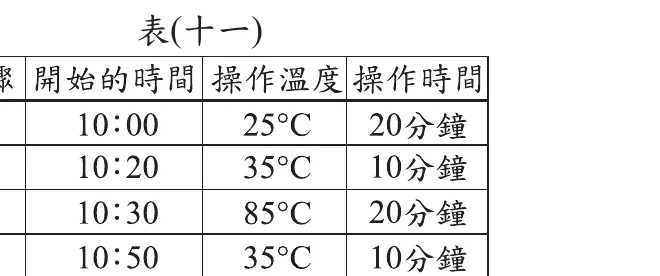
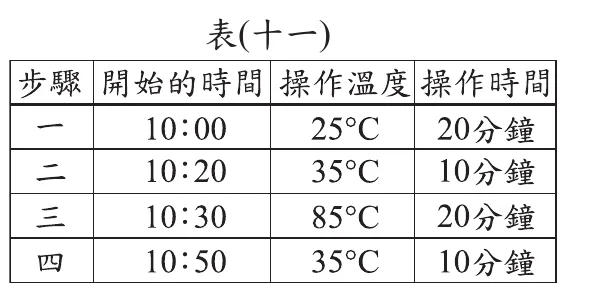
歷屆試題裁圖品質修正（第三批）：113 會考數學／自然／社會重裁 10 餘張
- 113 數學 q9 q22
- 113 自然 q25 q27 q41
- 113 社會 q6 q18 q24 q33 q34
一樣是修「表格標題／圖號被裁掉、題目文字殘留在圖裡、圖例或座標軸被切斷」。

Claude-Session: https://claude.ai/code/session_013StxRYaZsVGU7qyCHjAgeH

Changed region(s): [[0.0, 0.2029, 0.93, 1.0], [0.21, 0.058, 0.57, 0.1739]]

diff --git a/index.html b/index.html
@@ -14,7 +14,7 @@
   } catch (e) {}
 })();
 </script>
-<link rel="stylesheet" href="css/style.css?v=20260903e">
+<link rel="stylesheet" href="css/style.css?v=20260903f">
 </head>
 <body>
 <header class="topbar">
@@ -513,29 +513,29 @@
 </section>
 </main>
 
-<script src="js/data/idioms.js?v=20260903e"></script>
-<script src="js/data/slang.js?v=20260903e"></script>
-<script src="js/data/phonics.js?v=20260903e"></script>
-<script src="js/data/chars.js?v=20260903e"></script>
-<script src="js/data/reading.js?v=20260903e"></script>
-<script src="js/data/writing.js?v=20260903e"></script>
-<script src="js/data/checks-idioms.js?v=20260903e"></script>
-<script src="js/data/checks-slang.js?v=20260903e"></script>
-<script src="js/data/checks-phonics.js?v=20260903e"></script>
-<script src="js/data/checks-chars.js?v=20260903e"></script>
+<script src="js/data/idioms.js?v=20260903f"></script>
+<script src="js/data/slang.js?v=20260903f"></script>
+<script src="js/data/phonics.js?v=20260903f"></script>
+<script src="js/data/chars.js?v=20260903f"></script>
+<script src="js/data/reading.js?v=20260903f"></script>
+<script src="js/data/writing.js?v=20260903f"></script>
+<script src="js/data/checks-idioms.js?v=20260903f"></script>
+<script src="js/data/checks-slang.js?v=20260903f"></script>
+<script src="js/data/checks-phonics.js?v=20260903f"></script>
+<script src="js/data/checks-chars.js?v=20260903f"></script>
 <!-- custom.js（自創題庫 20MB+）改由 app.js 背景載入，避免手機開站白屏 -->
-<script src="js/data/counts.js?v=20260903e"></script>
-<script src="js/data/subjects.js?v=20260903e"></script>
+<script src="js/data/counts.js?v=20260903f"></script>
+<script src="js/data/subjects.js?v=20260903f"></script>
 <!-- 動態載入（2026-08-27 codex 體檢）：
      lessons-*.js（概念卡）、anim*.js（成語動畫引擎）、*-custom.js（各科匯入題庫）
      合計約 12MB，都只有進到對應畫面才用得到，改由 js/app.js 的 loadScript() 在需要時抓。
      不要把它們加回來，否則手機一開站又要先下載十幾 MB 才會有畫面。 -->
-<script src="js/chk-gen.js?v=20260903e"></script>
-<script src="js/dialog.js?v=20260903e"></script>
-<script src="js/versions.js?v=20260903e"></script>
-<script src="js/widgets.js?v=20260903e"></script>
-<script src="js/vendor/hanzi-writer.min.js?v=20260903e"></script>
-<script src="js/app.js?v=20260903e"></script>
-<script src="js/sync.js?v=20260903e"></script>
+<script src="js/chk-gen.js?v=20260903f"></script>
+<script src="js/dialog.js?v=20260903f"></script>
+<script src="js/versions.js?v=20260903f"></script>
+<script src="js/widgets.js?v=20260903f"></script>
+<script src="js/vendor/hanzi-writer.min.js?v=20260903f"></script>
+<script src="js/app.js?v=20260903f"></script>
+<script src="js/sync.js?v=20260903f"></script>
 </body>
 </html>
